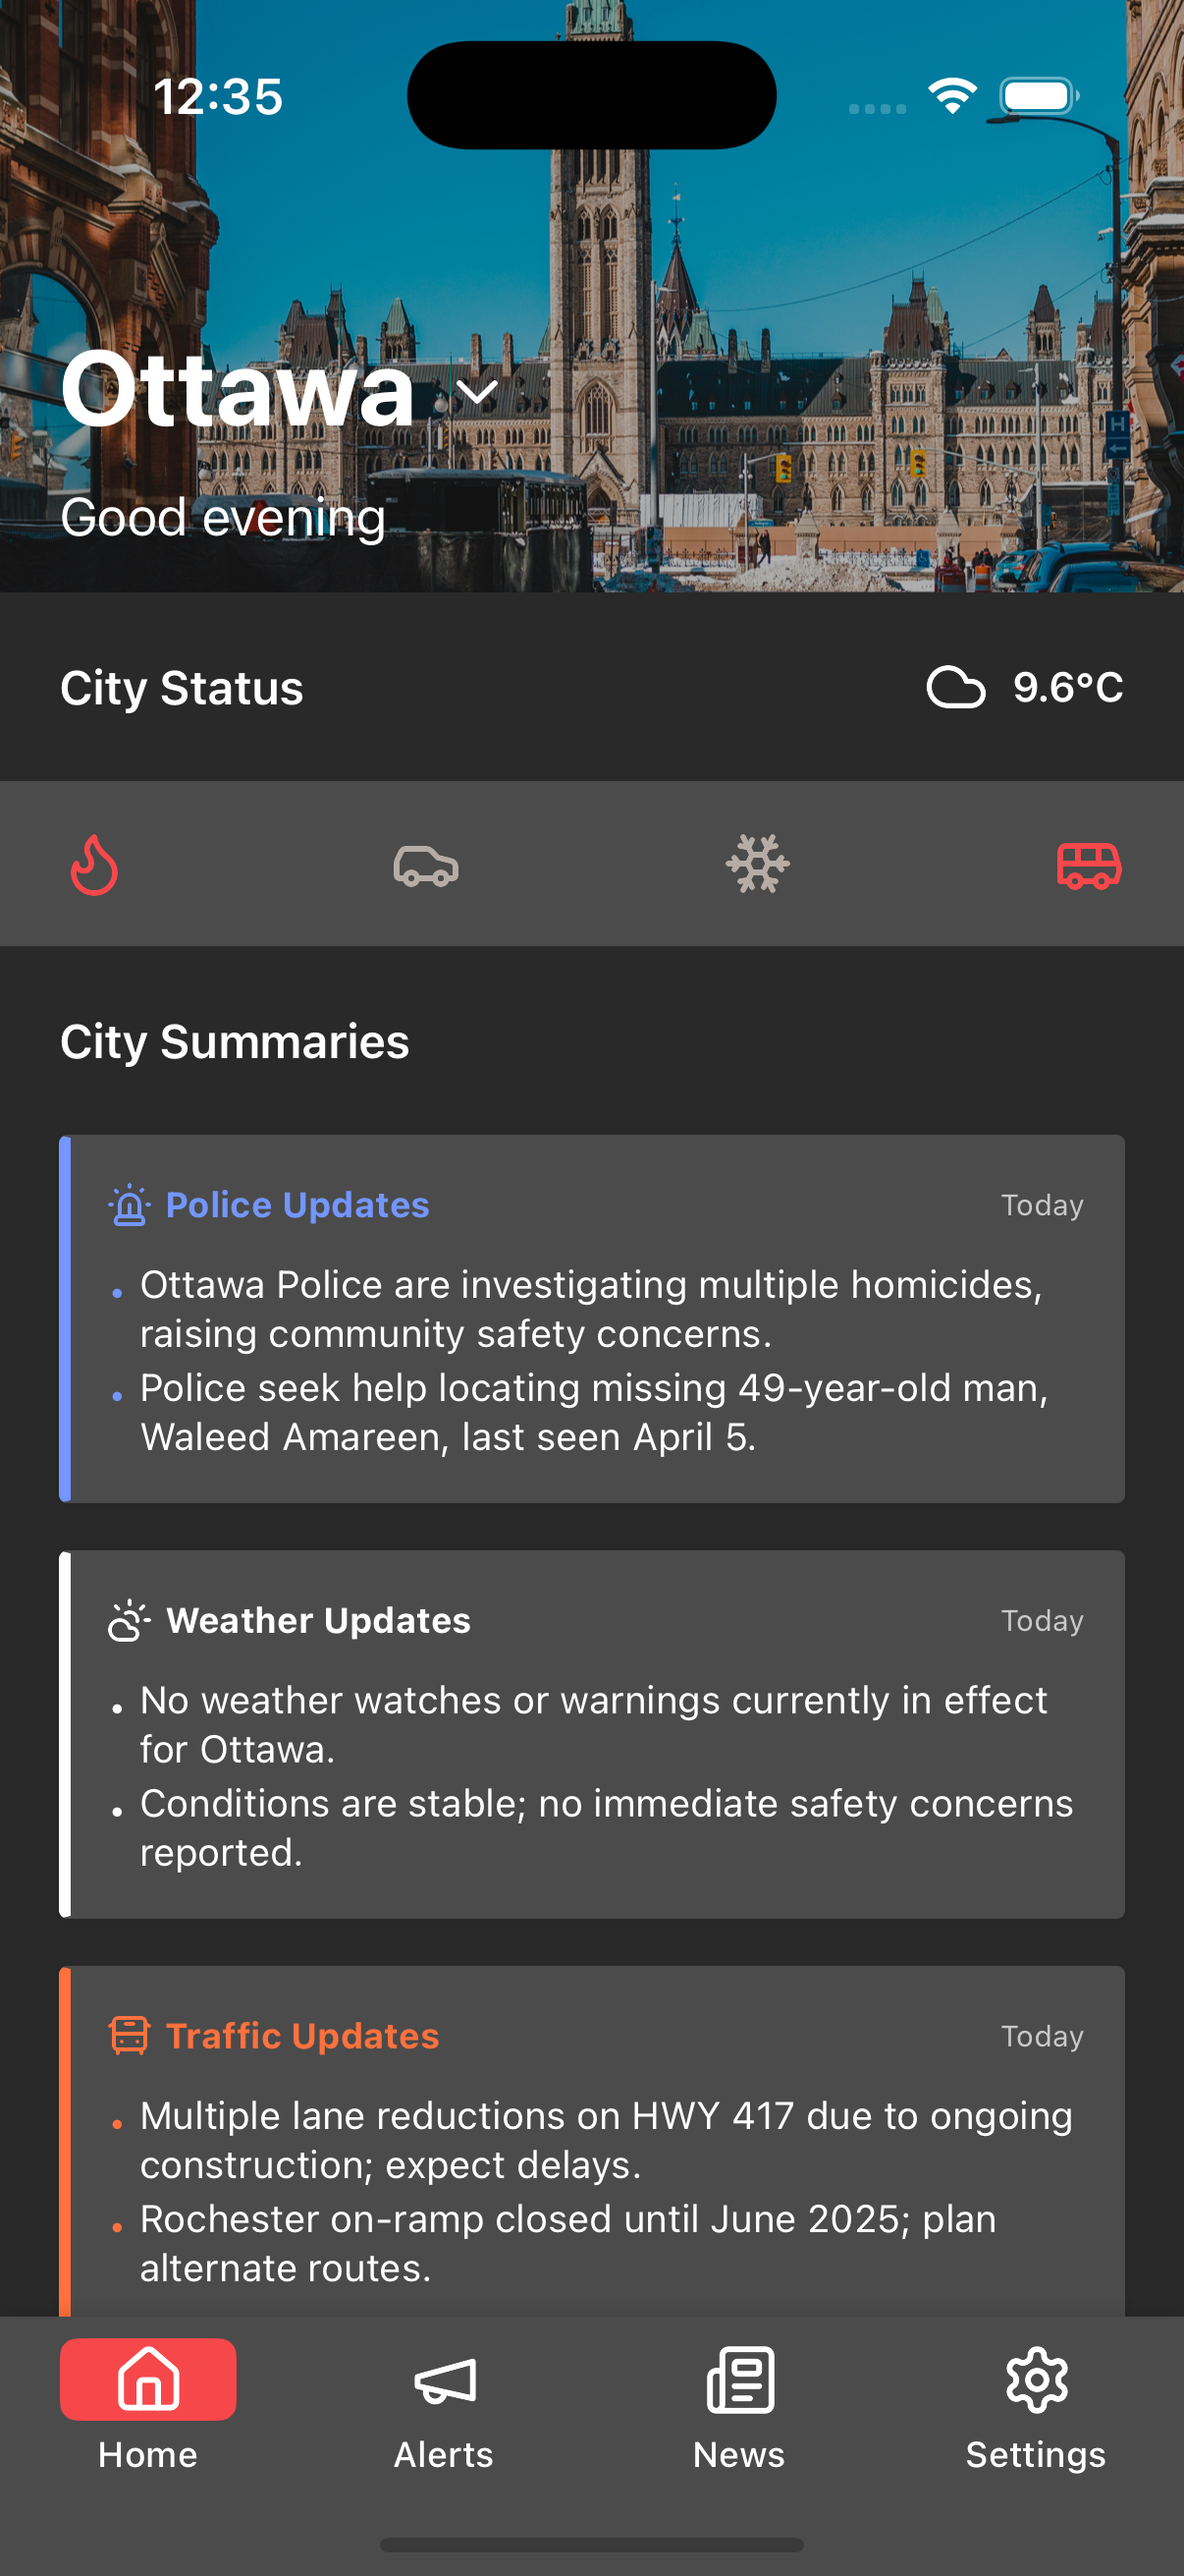
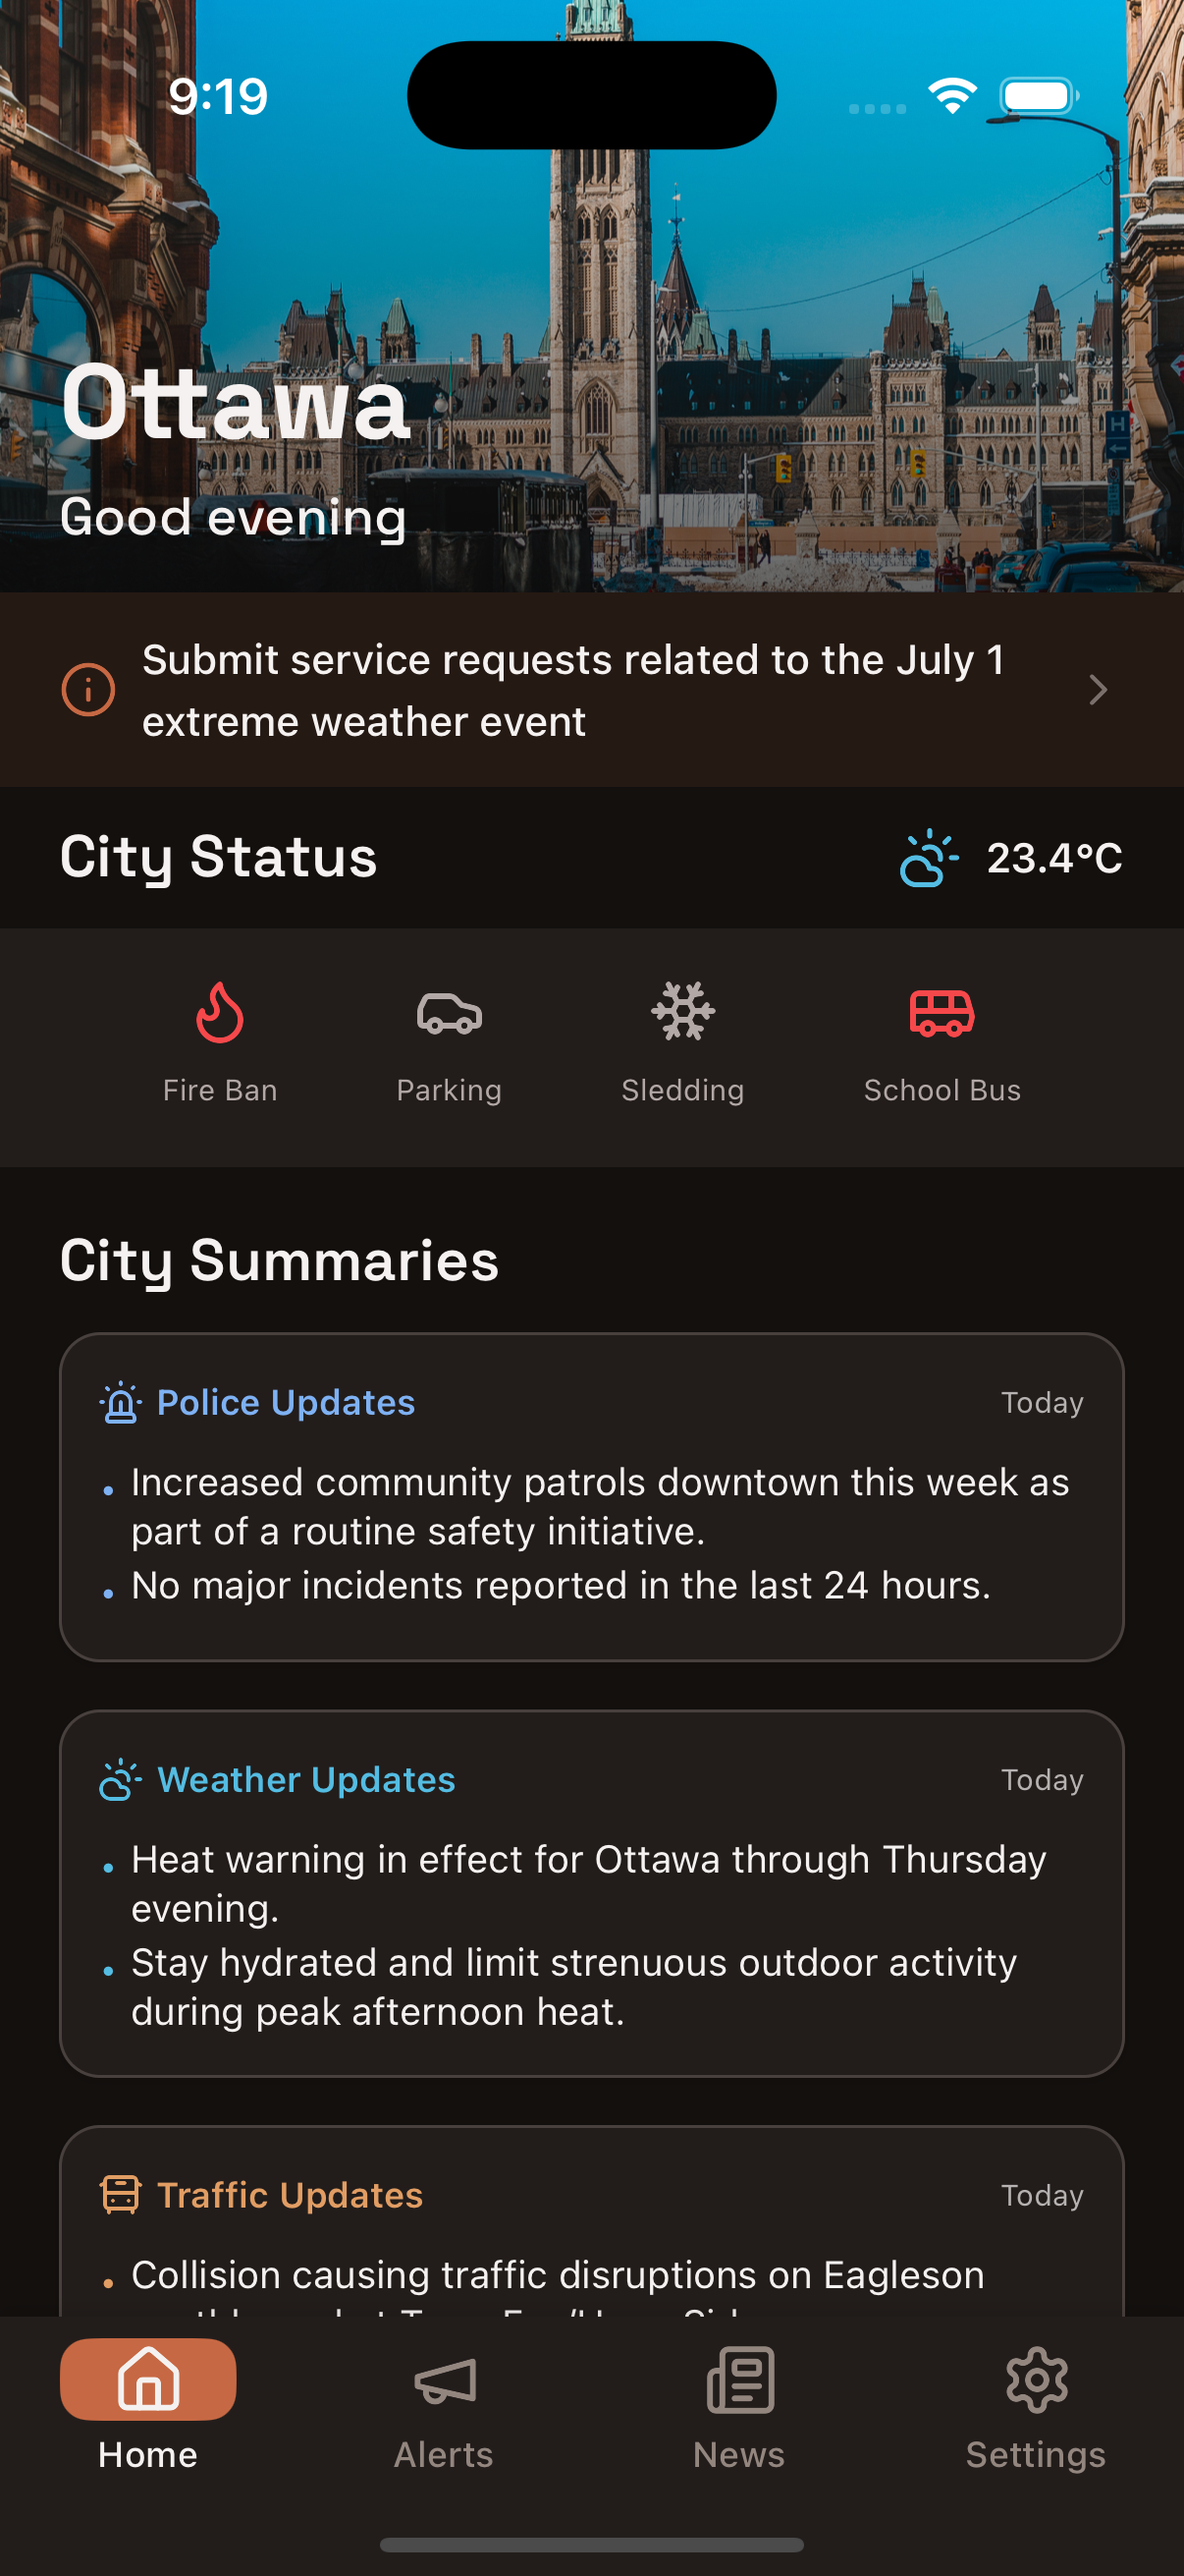
Add app screenshots to README
Updated screenshots reflecting the current Home, Alerts, and News
screens; embedded them in the README for the project overview.

false

diff --git a/README.md b/README.md
@@ -8,6 +8,12 @@
   One glance, everything local — weather, traffic, police, city status, and news for Ottawa.
 </p>
 
+<p align="center">
+  <img src="apps/mobile/screenshots/scopes_ss_1.png" alt="Home screen" width="30%" />
+  <img src="apps/mobile/screenshots/scopes_ss_2.png" alt="Alerts screen" width="30%" />
+  <img src="apps/mobile/screenshots/scopes_ss_3.png" alt="News screen" width="30%" />
+</p>
+
 > [!IMPORTANT]
 > **Not launched yet.** The app is still pre-production. Everything currently reads/writes the `*_dev` Firestore collections — `FIRESTORE_ENV` is unset in both Vercel and the GitHub repo variables, and `SCRAPERS_ENABLED` is unset, so scheduled scraper runs are paused. Nothing writes to the production (unsuffixed) collections. See [Firestore environments](#firestore-environments-dev-vs-production) and [Before launch](#before-launch) before flipping anything to production. To seed dev data, run the [Populate Dev Collections](#seed-dev-in-one-click) workflow.
 
